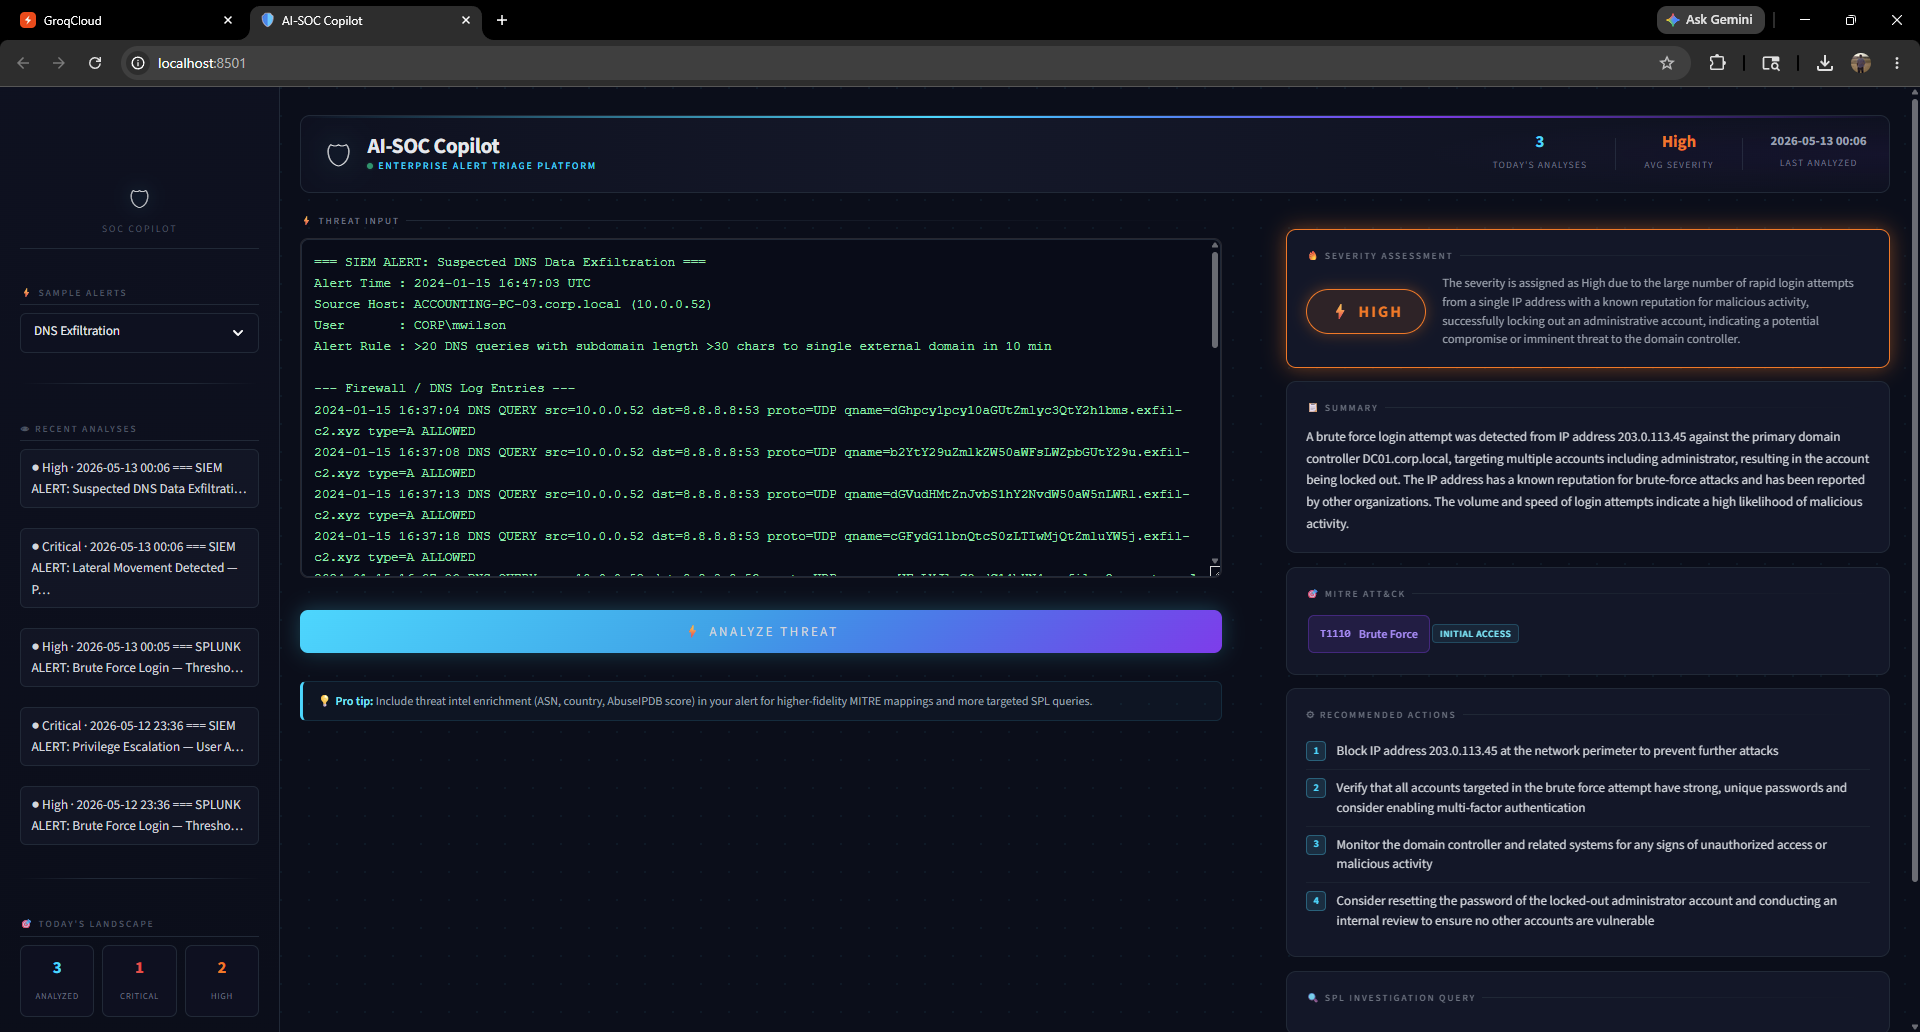
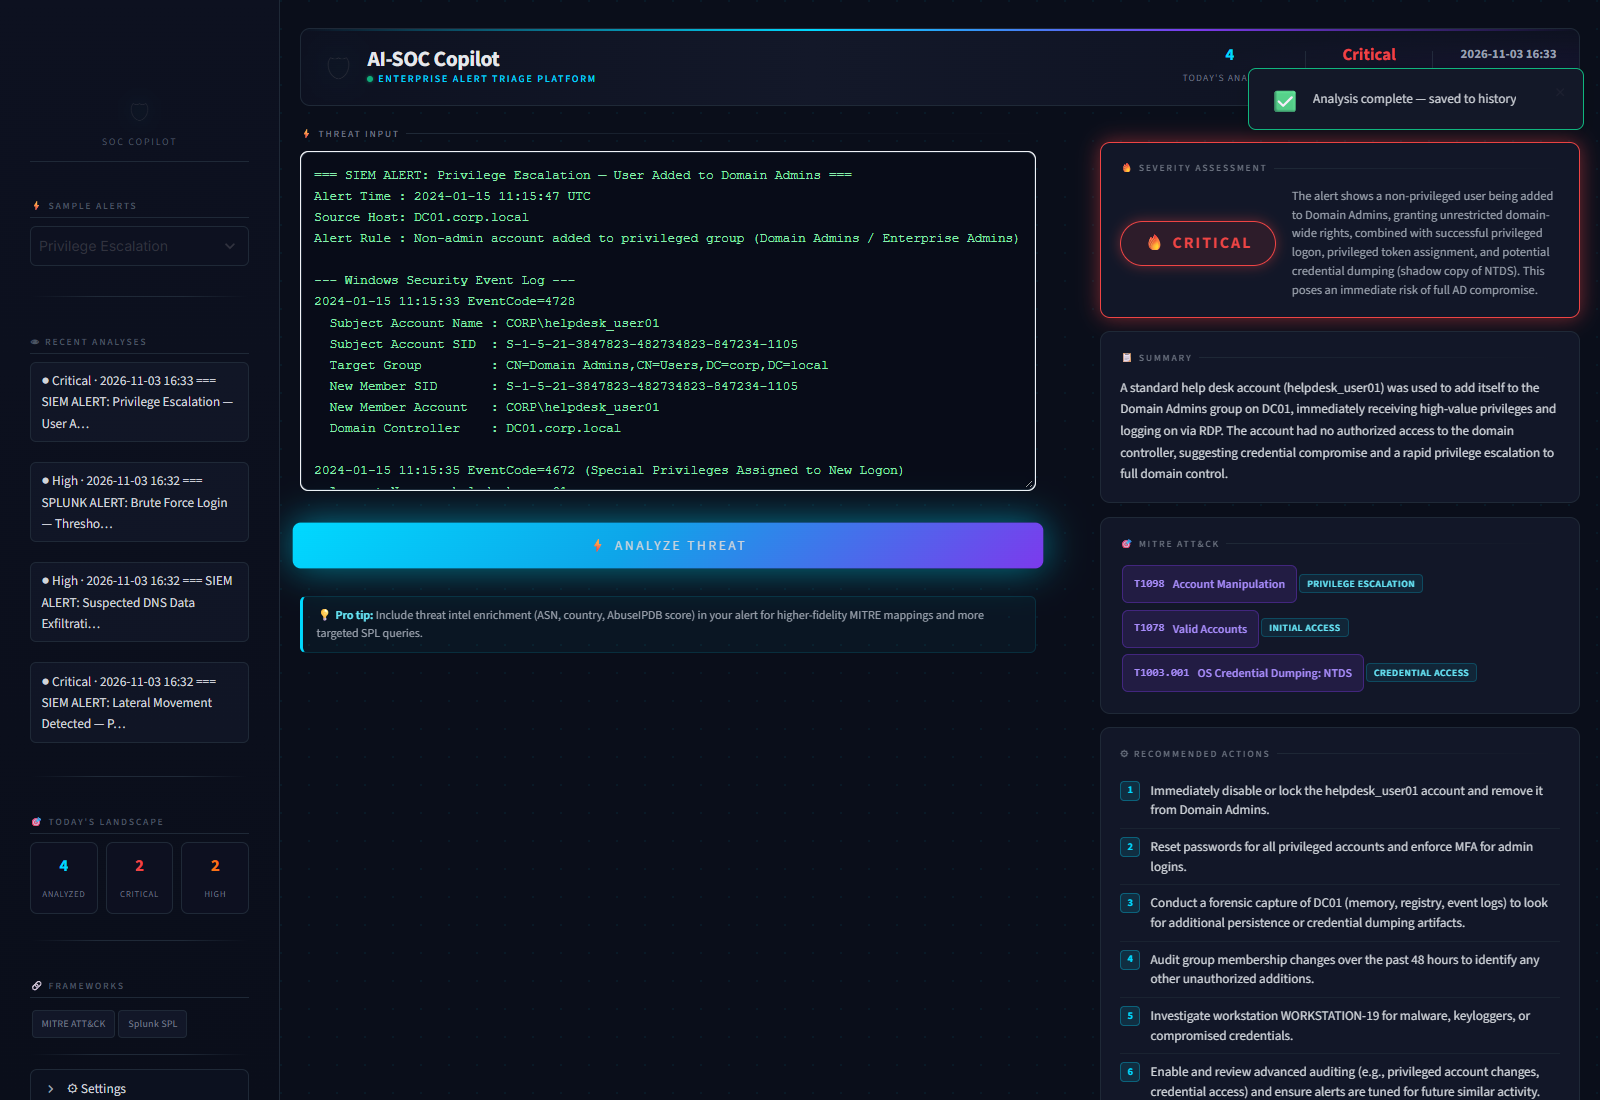
fix: configurable Groq model (default retired) and real screenshots
Groq retired llama-3.3-70b-versatile, so every analysis failed with
'model not found'. The model is now read from GROQ_MODEL (default
openai/gpt-oss-120b, verified available) with max_tokens raised to
4096 to leave room for reasoning tokens. Test covers the override.

Screenshots are fresh runs of all four bundled samples with matching
inputs and results; the old dashboard image paired one alert with
another alert's analysis. README model references updated, and a
changelog line corrected: the AbuseIPDB score came from the synthetic
sample's enrichment block, not from the model.

diff --git a/app.py b/app.py
@@ -14,6 +14,10 @@ BASE_DIR = Path(__file__).parent.resolve()
 ANALYSES_FILE = BASE_DIR / "analyses.json"
 SAMPLE_ALERTS_DIR = BASE_DIR / "sample_alerts"
 
+# Groq retires models over time, so the model is configurable. Set GROQ_MODEL in .env to override.
+GROQ_MODEL = os.getenv("GROQ_MODEL") or "openai/gpt-oss-120b"
+MAX_TOKENS = 4096  # room for the JSON answer plus the model's reasoning tokens
+
 SYSTEM_PROMPT = """You are a senior SOC (Security Operations Center) analyst with 10 years of \
 hands-on experience in threat detection, incident response, and security operations. \
 You have deep expertise in:
@@ -137,8 +141,8 @@ def analyze_alert(alert_text: str) -> dict:
         )
     client = Groq(api_key=api_key)
     response = client.chat.completions.create(
-        model="llama-3.3-70b-versatile",
-        max_tokens=2048,
+        model=GROQ_MODEL,
+        max_tokens=MAX_TOKENS,
         messages=[
             {"role": "system", "content": SYSTEM_PROMPT},
             {
@@ -790,8 +794,8 @@ def render_sidebar(samples: dict, history: list) -> None:
     # Settings collapsible
     with st.expander("⚙ Settings"):
         st.markdown(
-            '<div style="font-size:0.72rem;color:#6B7280;">Model: llama-3.3-70b-versatile<br>'
-            'Provider: Groq Cloud<br>Max tokens: 2048<br>Format: JSON strict</div>',
+            f'<div style="font-size:0.72rem;color:#6B7280;">Model: {html.escape(GROQ_MODEL)}<br>'
+            f'Provider: Groq Cloud<br>Max tokens: {MAX_TOKENS}<br>Format: JSON strict</div>',
             unsafe_allow_html=True,
         )
 

diff --git a/tests/test_app.py b/tests/test_app.py
@@ -99,3 +99,13 @@ def test_sample_alerts_load_with_readable_names():
 
 def test_prompt_treats_alert_as_untrusted():
     assert "untrusted data" in app.SYSTEM_PROMPT
+
+
+def test_model_is_configurable(monkeypatch):
+    import importlib
+
+    monkeypatch.setenv("GROQ_MODEL", "some/other-model")
+    reloaded = importlib.reload(app)
+    assert reloaded.GROQ_MODEL == "some/other-model"
+    monkeypatch.delenv("GROQ_MODEL")
+    assert importlib.reload(app).GROQ_MODEL == "openai/gpt-oss-120b"

diff --git a/README.md b/README.md
@@ -4,7 +4,7 @@
 
 ![Python](https://img.shields.io/badge/Python-3.11+-blue?style=flat-square&logo=python&logoColor=white)
 ![Streamlit](https://img.shields.io/badge/Streamlit-1.32+-red?style=flat-square&logo=streamlit&logoColor=white)
-![Groq](https://img.shields.io/badge/Groq-llama--3.3--70b--versatile-F55036?style=flat-square)
+![Groq](https://img.shields.io/badge/Groq-gpt--oss--120b-F55036?style=flat-square)
 ![License](https://img.shields.io/badge/License-MIT-green?style=flat-square)
 
 ---
@@ -13,7 +13,7 @@
 
 <img src="screenshots/01-dashboard.png" alt="AI-SOC Copilot main dashboard" width="100%">
 
-*Dashboard view — the main interface with the alert input panel and structured analysis output.*
+*Privilege escalation sample: the alert input with the structured analysis beside it. All four screenshots are real runs of the bundled samples (November 2026, `openai/gpt-oss-120b`).*
 
 <img src="screenshots/02-lateral-movement.png" alt="Lateral movement alert analysis" width="100%">
 
@@ -48,13 +48,13 @@ This alert fatigue leads to:
 | Layer | Technology |
 |---|---|
 | UI | Streamlit |
-| AI Engine | Llama 3.3 70B Versatile (Groq) |
+| AI Engine | `openai/gpt-oss-120b` on Groq by default; set `GROQ_MODEL` in `.env` to use another Groq model |
 | SDK | `groq` Python SDK |
 | Config | `python-dotenv` |
 | Language | Python 3.11+ |
 | History | Local `analyses.json` |
 
-**Speed:** Groq's LPU inference hardware delivers sub-second latency on the Llama 3.3 70B model.
+**Speed:** a sample alert took about 3 seconds end to end in testing (one run, November 2026); it depends on the model and Groq's load.
 
 ---
 

diff --git a/CHANGELOG.md b/CHANGELOG.md
@@ -5,6 +5,12 @@ All notable changes to this project are documented here. The format follows
 
 ## [Unreleased]
 
+### Fixed
+- Groq retired `llama-3.3-70b-versatile`, so every analysis failed with "model not found". The model
+  is now configurable (`GROQ_MODEL`, default `openai/gpt-oss-120b`), with room for reasoning tokens.
+- Screenshots retaken from real runs of all four samples; the old dashboard screenshot paired one
+  alert with another alert's result.
+
 ### Security
 - Model output (summary, reasoning, actions, technique fields, severity) is now HTML-escaped before
   rendering. Streamlit already strips event handlers, so this was not script execution, but raw
@@ -16,7 +22,8 @@ All notable changes to this project are documented here. The format follows
   by `normalize_analysis()` and unknown severities shown as "Unknown".
 - The sidebar listed VirusTotal, Shodan, AbuseIPDB and other "Intel Sources" that the app never
   queries. It now lists only the frameworks the analysis maps to.
-- Removed unverified metrics and an invented example detail from the README (earlier PR).
+- Removed unverified metrics from the README, and an example-output detail (an AbuseIPDB score) that
+  the README's example input did not contain (earlier PR).
 
 ### Added
 - pytest suite for the non-LLM logic, CI on Ubuntu and Windows, SECURITY.md, CONTRIBUTING.md,
